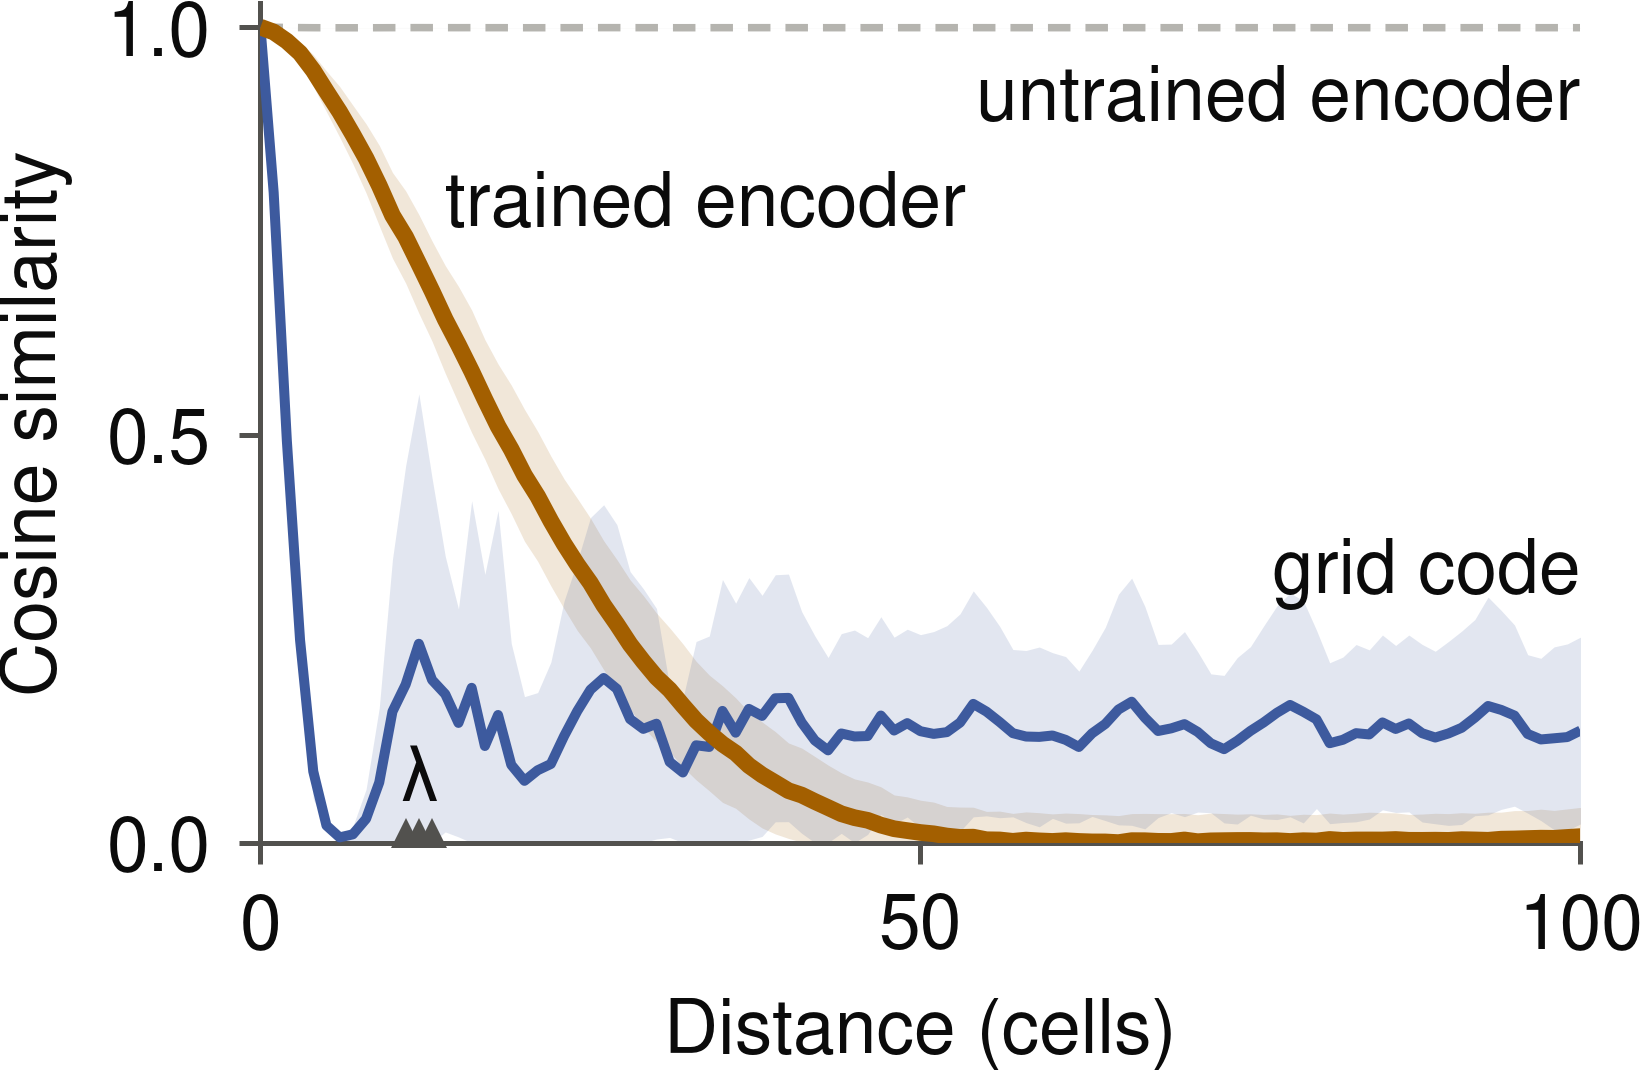
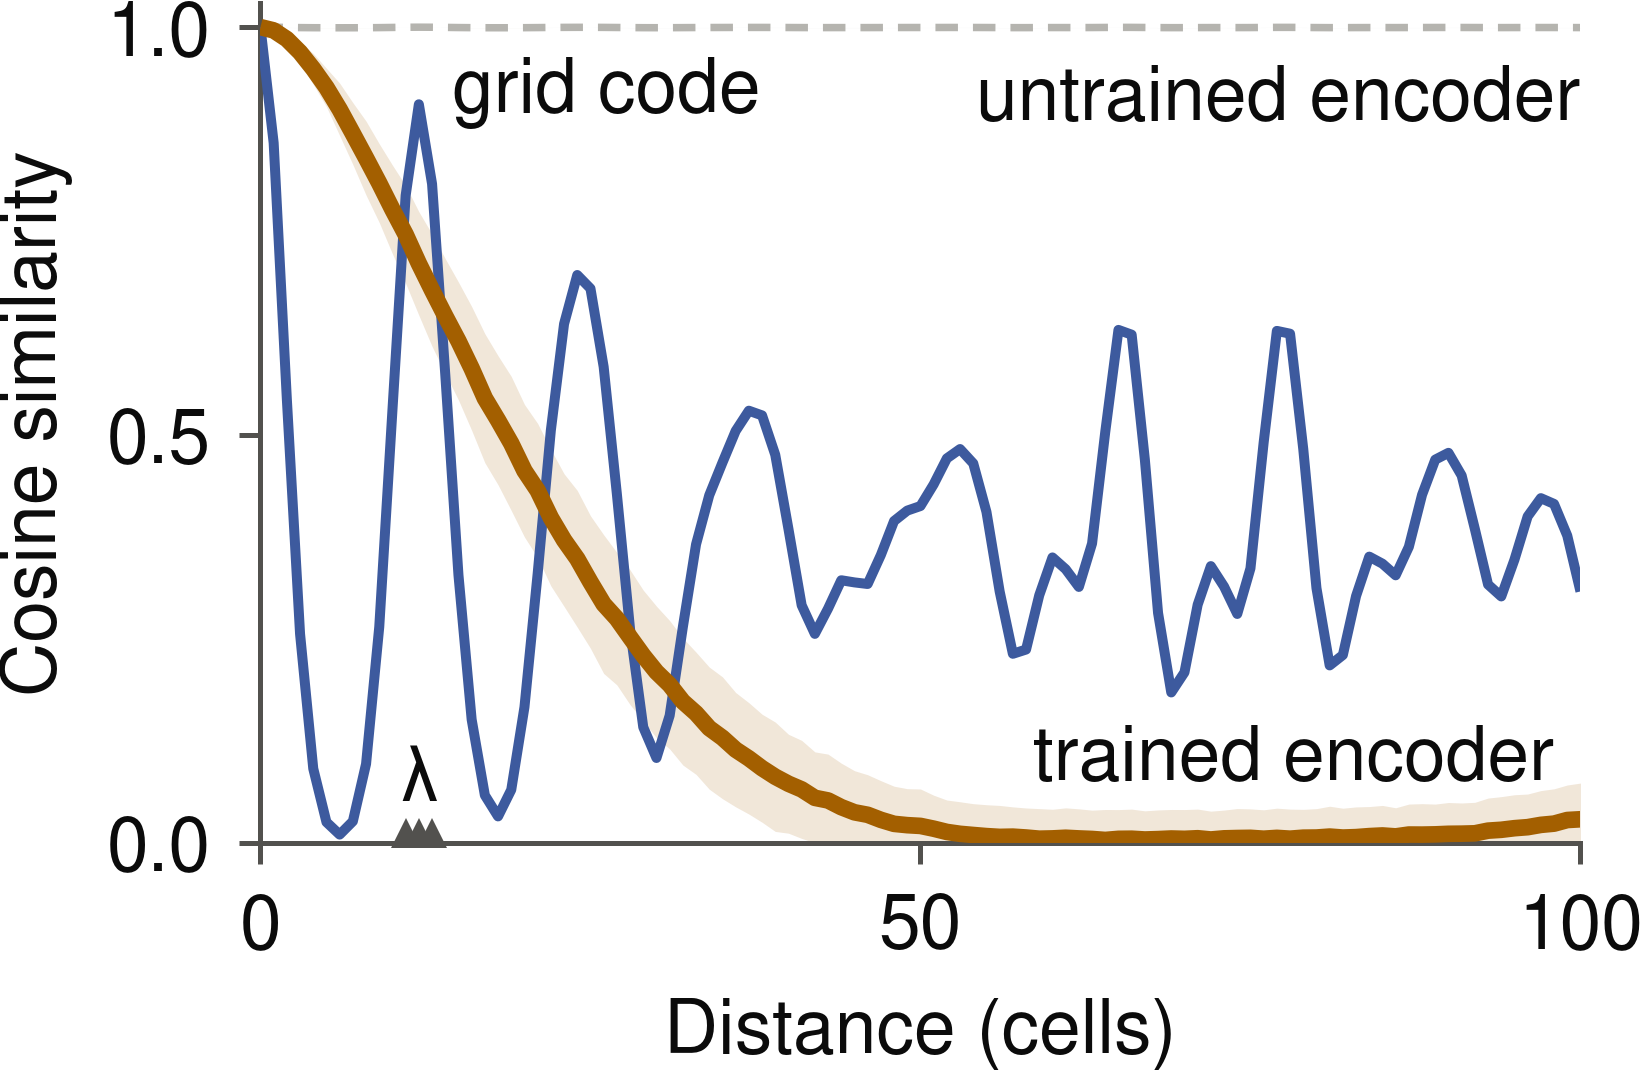
cosyne2027 encoder figure: axis-aligned distance; grid code exact, no band
All-direction Euclidean distance averaged the lattice grid code over a
finite, ring-dependent set of offsets: a jagged curve (the exact ring
average is as rough as the sampled one, so it is structure, not noise)
with the lambda bump diluted to 0.25. Along an axis, as in explore.ipynb's
slice, the grid code is one deterministic curve (0.91 at 12, 0.70 at 24),
and being translation-invariant it has SD 0, so no band. Encoder bands are
spread across positions. Labels moved to clear the new curve.

Changed region(s): [[0.1864, 0.0617, 0.9629, 0.8019], [0.1553, 0.0617, 0.2174, 0.4626], [0.1553, 0.0308, 0.1864, 0.0617]]

diff --git a/cosyne2027/encoder_similarity.py b/cosyne2027/encoder_similarity.py
@@ -9,9 +9,17 @@ Three representations of a scaffold position: the smoothed grid code (434-d,
 lambdas 11/12/13, fwhm 0.25), d0_base's trained encoder applied to it, and an
 untrained encoder of the same architecture (create_encoder, torch seed 0,
 same gain). For each distance d = 0..D_MAX, N_REF reference positions at
-least BORDER cells from the scaffold edge are paired with an integer offset
-whose Euclidean length rounds to d, uniform over all such offsets; the curve
-is the mean and SD over those pairs of the raw cosine similarity. Raw, not
+least BORDER cells from the scaffold edge are paired with a position d cells
+away along x or y (an axis-aligned offset, uniform over the four); the
+curve is the mean and SD over those pairs of the raw cosine similarity.
+Axis-aligned, as in encoder_training/notebooks/explore.ipynb's slice: the
+grid code is a 2-D lattice code, so its similarity depends on direction,
+and averaging over all directions at a Euclidean distance mixes a finite,
+ring-dependent set of lattice offsets into a jagged curve that dilutes the
+lambda bump (0.25 against 0.91 along an axis). The grid code is
+translation-invariant (each module's bump shifts with position), so its
+curve is exact and its SD is zero; the encoders' SD is spread across
+positions. Raw, not
 mean-centred: it is what the attractor compares. (An untrained encoder maps
 every position to nearly one vector, so its raw cosine sits near 1; centred,
 it would retrace the grid-code curve.)
@@ -53,11 +61,10 @@ def unit(v):
 
 
 def offsets_at(d):
-    """All integer offsets whose Euclidean length rounds to d."""
-    r = np.arange(-d - 1, d + 2)
-    dx, dy = np.meshgrid(r, r, indexing="ij")
-    keep = np.rint(np.hypot(dx, dy)) == d
-    return np.stack([dx[keep], dy[keep]], axis=1)
+    """The axis-aligned offsets of length d: (+-d, 0) and (0, +-d)."""
+    if d == 0:
+        return np.zeros((1, 2), dtype=int)
+    return np.array([[d, 0], [-d, 0], [0, d], [0, -d]])
 
 
 def similarity_curves(encoders, rng):

diff --git a/cosyne2027/fig_encoder.py b/cosyne2027/fig_encoder.py
@@ -4,11 +4,12 @@ Run: ~/.conda/envs/cls/bin/python cosyne2027/fig_encoder.py
 Reads cosyne2027/data/encoder_similarity.json (encoder_similarity.py).
 
 Main plot: raw cosine similarity between two positions' representations
-against their Euclidean distance, for the trained encoder (thick, the
+against their axis-aligned distance, for the trained encoder (thick, the
 embedding net's hue in fig 2), the grid code it reads (medium) and an
 untrained encoder of the same architecture (thin, gray, dashed). Bands are
-+-1 SD over the 2000 position pairs at each distance. Triangles mark the grid
-periods (11, 12, 13 cells).
++-1 SD over the 2000 position pairs at each distance; the grid code is
+translation-invariant, so its curve is exact and has no band. Triangles mark
+the grid periods (11, 12, 13 cells).
 """
 import json
 
@@ -28,8 +29,8 @@ CURVES = {  # name: (color, lw, linestyle)
     "untrained encoder": ("#b5b4af", 0.9, (0, (3, 2))),
 }
 # Label anchors in data coordinates: (x, y, ha)
-LABEL_AT = {"trained encoder": (14, 0.78, "left"),
-            "grid code": (100, 0.33, "right"),
+LABEL_AT = {"trained encoder": (98, 0.1, "right"),
+            "grid code": (14.5, 0.92, "left"),
             "untrained encoder": (100, 0.91, "right")}
 
 

diff --git a/cosyne2027/README.md b/cosyne2027/README.md
@@ -91,10 +91,16 @@ figure carries an arena key).
 
 `encoder_similarity.py` (run as `python -m cosyne2027.encoder_similarity`)
 writes `data/encoder_similarity.json`; `fig_encoder.py` draws it. Raw
-cosine similarity against Euclidean distance (0-100 cells) for d0_base's
-trained encoder, the smoothed grid code it reads (lambdas 11/12/13) and an
-untrained encoder of the same architecture (torch seed 0, gain 100); mean
-+-1 SD over 2000 position pairs per distance, CPU only. Raw rather than
+cosine similarity against axis-aligned distance (0-100 cells, offsets along
+x or y) for d0_base's trained encoder, the smoothed grid code it reads
+(lambdas 11/12/13) and an untrained encoder of the same architecture (torch
+seed 0, gain 100); mean +-1 SD over 2000 position pairs per distance, CPU
+only. The grid code is translation-invariant, so its curve is exact (SD 0,
+no band): 0.91 at lambda = 12, 0.70 at 24, partial realignments out to 100.
+Axis-aligned rather than all-direction Euclidean: averaged over a distance
+ring, the lattice code's direction dependence gives a jagged curve (real
+structure, not sampling: the exact ring average is as rough) that dilutes
+the lambda bump to 0.25. Raw rather than
 mean-centred because that is what the attractor compares: the untrained
 encoder maps every position to nearly one vector (cosine ~1 everywhere),
 and centred it would retrace the grid-code curve.
